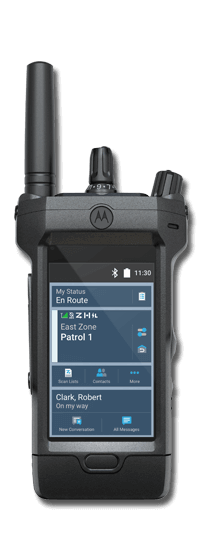
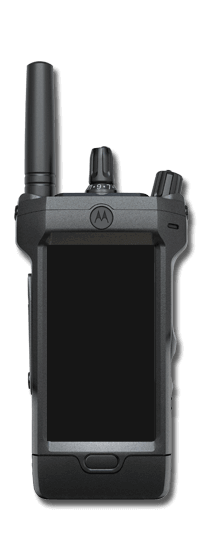
klart

Changed region(s): [[0.233, 0.4288, 0.7573, 0.7964]]

diff --git a/web/src/App.vue b/web/src/App.vue
@@ -1,46 +1,75 @@
 <template>
   <v-app style="background-color: transparent;">
-    <v-img 
-      class="pos" 
-      :style="{ 'transform': 'scale(' + $store.state.settings.size + ')', left: dragX + 'px', top: dragY + 'px' }"
-      @mousedown="startDrag"
-      @mousemove="doDrag"
-      @mouseup="stopDrag"
-      cover 
-      height="fit-content" 
-      width="340" 
-      src="./assets/motorola.png"
-    >
-      <v-card
-        @mousemove.stop
-        class="display" 
-        color="background">
-        <v-system-bar height="32" style="position: relative!important;" color="grey-darken-3">
-          <v-icon icon="mdi-bluetooth" class="ms-1"></v-icon>
-    
-          <v-icon icon="mdi-battery" class="ms-1"></v-icon>
-    
-          <span class="ms-2">08:30</span>
-        </v-system-bar>
-        <router-view v-slot="{ Component, route }">
-          <transition :name="route.meta.transition || 'fade'">
-            <component :is="Component" />
-          </transition>
-        </router-view>
-      </v-card>
-      <div class="home-btn" @click="$router.push('/')">
-        <v-tooltip
-          activator="parent"
-          location="top"
-        >
-          Home
-        </v-tooltip>
-      </div>
-    </v-img>
+    <v-slide-y-transition>
+      <v-img v-if="$store.state.Menu"
+        class="pos" 
+        :style="{ 'transform': 'scale(' + $store.state.settings.size + ')', left: dragX + 'px', top: dragY + 'px' }"
+        @mousedown="startDrag"
+        @mousemove="doDrag"
+        @mouseup="stopDrag"
+        cover 
+        height="fit-content" 
+        width="340" 
+        src="./assets/motorola.png"
+      >
+        <v-card v-if="$store.state.on"
+          @mousemove.stop
+          class="display" 
+          color="background">
+          <v-system-bar height="32" style="position: relative!important;" color="grey-darken-3">
+            <v-icon icon="mdi-bluetooth" class="ms-1"></v-icon>
+      
+            <v-icon icon="mdi-battery" class="ms-1"></v-icon>
+      
+            <span class="ms-2">08:30</span>
+          </v-system-bar>
+          <router-view v-slot="{ Component, route }">
+            <transition :name="route.meta.transition || 'fade'">
+              <component :is="Component" />
+            </transition>
+          </router-view>
+        </v-card>
+        <div class="home-btn" @click="Home()">
+          <v-tooltip
+            activator="parent"
+            location="top"
+          >
+            Home
+          </v-tooltip>
+        </div>
+        <div class="up-btn">
+          <v-tooltip
+            activator="parent"
+            location="start"
+          >
+            Volume up
+          </v-tooltip>
+        </div>
+        <div class="down-btn">
+          <v-tooltip
+            activator="parent"
+            location="end"
+          >
+            Volume down
+          </v-tooltip>
+        </div>
+        <div class="toggle-btn" @click="$store.state.on = !$store.state.on">
+          <v-tooltip
+            activator="parent"
+            location="top"
+          >
+            Toggle on/off
+          </v-tooltip>
+        </div>
+      </v-img>
+    </v-slide-y-transition>
   </v-app>
 </template>
 
 <script>
+import router from '@/router/index'
+import store from '@/store/index'
+
 export default {
   data() {
     return {
@@ -66,6 +95,13 @@ export default {
     stopDrag() {
       this.dragging = false;
     },
+    Home(){
+      if ( router.currentRoute.value.path == '/' ) {
+        store.state.Menu = false
+      } else {
+        router.push('/')
+      }
+    }
   },
 };
 </script>
@@ -138,9 +174,64 @@ export default {
   cursor: pointer;
 }
 
+.home-btn {
+  background: transparent;
+  width: 58px;
+  height: 28px;
+  margin: auto;
+  position: absolute;
+  top: 608px;
+  bottom: 0;
+  right: 7px;
+  left: 0;
+  border-radius: 18px;
+  cursor: pointer;
+}
+
 .home-btn:hover {
   background: #ffffff12;
 }
 
+.up-btn {
+  background: transparent;
+  width: 20px;
+  height: 68px;
+  margin: auto;
+  position: absolute;
+  top: 0px;
+  bottom: 371px;
+  right: 20px;
+  left: 0;
+  border-radius: 0px;
+  cursor: pointer;
+}
+
+.down-btn {
+  background: transparent;
+  width: 20px;
+  height: 68px;
+  margin: auto;
+  position: absolute;
+  top: 0px;
+  bottom: 371px;
+  right: 0;
+  left: 10px;
+  border-radius: 0px;
+  cursor: pointer;
+}
+
+.toggle-btn {
+  background: transparent;
+  width: 46px;
+  height: 46px;
+  margin: auto;
+  position: absolute;
+  top: 0px;
+  bottom: 308px;
+  right: 0;
+  left: 213px;
+  border-radius: 0px;
+  cursor: pointer;
+}
 
 </style>

diff --git a/web/src/views/Members.vue b/web/src/views/Members.vue
@@ -1,0 +1,25 @@
+<template>
+    <div class="side">
+        <div class="pad">
+            <v-card class="pa-1 rounded-0" color="cards">
+                <p class="text-h6 pb-0 pt-0 px-1">
+                    Members
+                </p>
+                <div>
+                    <v-card class="mb-1">
+                        <v-icon>
+                            mdi-account
+                        </v-icon>
+                        Dev Devsson
+                    </v-card>
+                    <v-card>
+                        <v-icon>
+                            mdi-account
+                        </v-icon>
+                        Dev Devsson
+                    </v-card>
+                </div>
+            </v-card>
+          </div>
+    </div>
+</template>

diff --git a/web/src/views/Home.vue b/web/src/views/Home.vue
@@ -50,7 +50,7 @@
           </p>
           <div class="bar d-flex align-end">
             <v-divider :thickness="2" vertical></v-divider>
-            <div>
+            <div @click="$router.push('/members')">
               <v-icon style="bottom: 0px;" size="40" class="pa-3">
                 mdi-account-multiple
               </v-icon>

diff --git a/web/src/router/index.js b/web/src/router/index.js
@@ -17,6 +17,11 @@ const routes = [
     component: () => import('@/views/Settings.vue'),
     meta: { transition: 'slide-y-transition' },
   },
+  {
+    path: '/members',
+    component: () => import('@/views/Members.vue'),
+    meta: { transition: 'slide-y-transition' },
+  },
 ]
 
 const router = createRouter({

diff --git a/web/src/store/index.js b/web/src/store/index.js
@@ -4,7 +4,9 @@ const resourceid = (window).GetParentResourceid ? (window).GetParentResourceid()
 
 export default createStore({
   state: {
-    Menu: false,
+    Menu: true,
+
+    on: true,
 
     settings: {
       anon: true,
